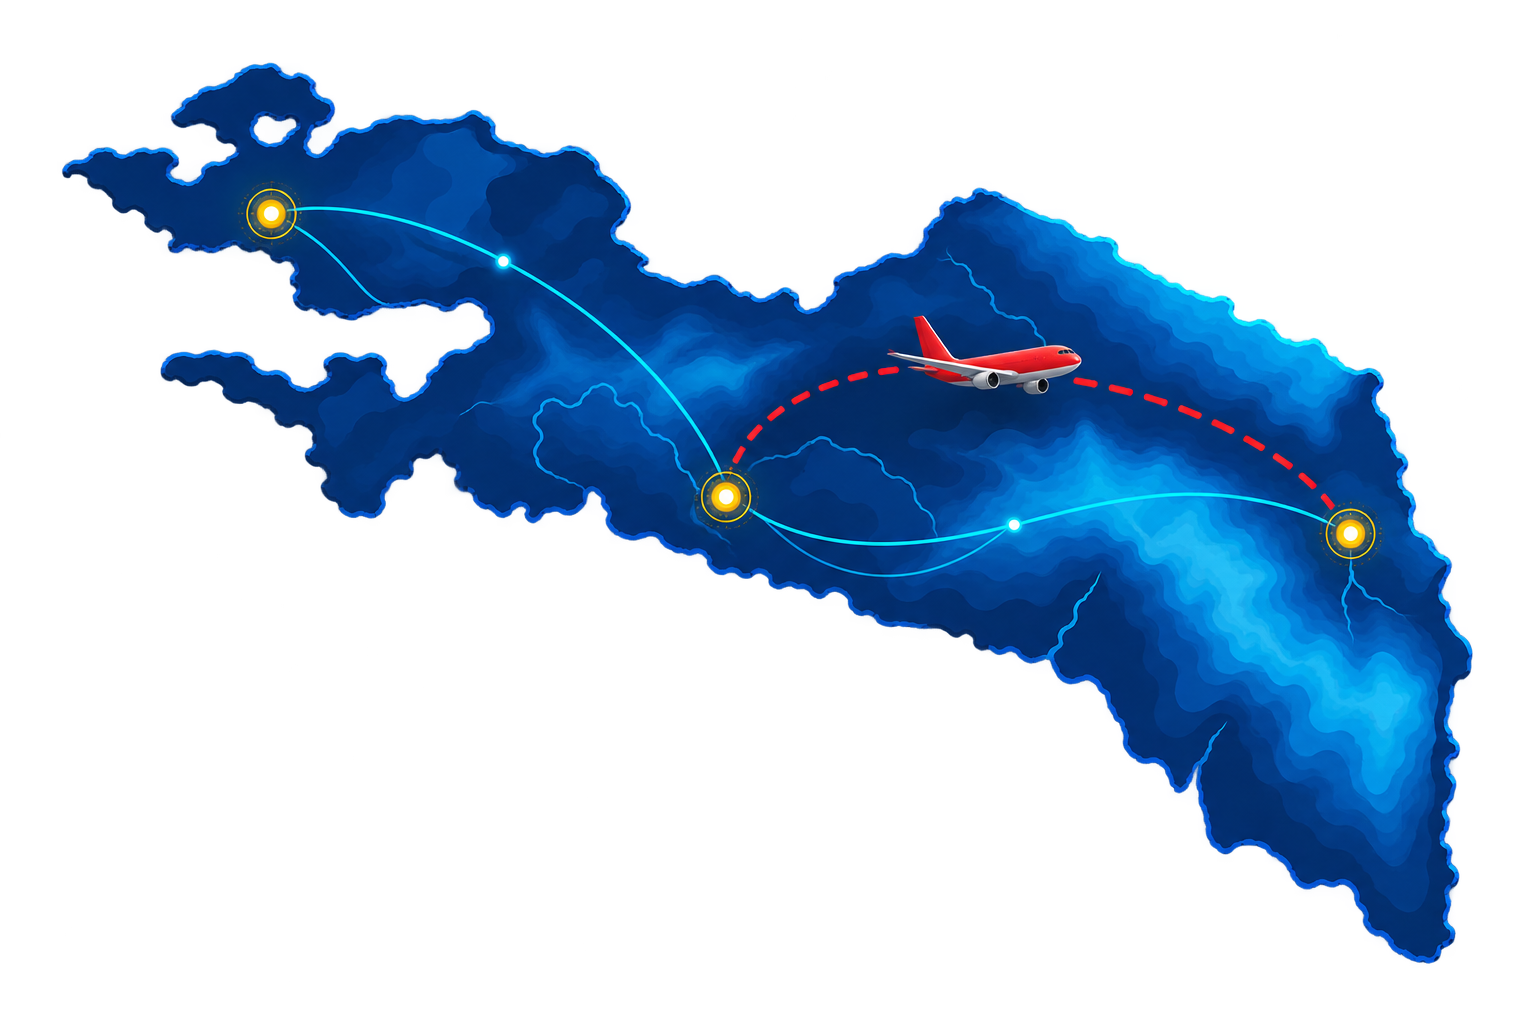
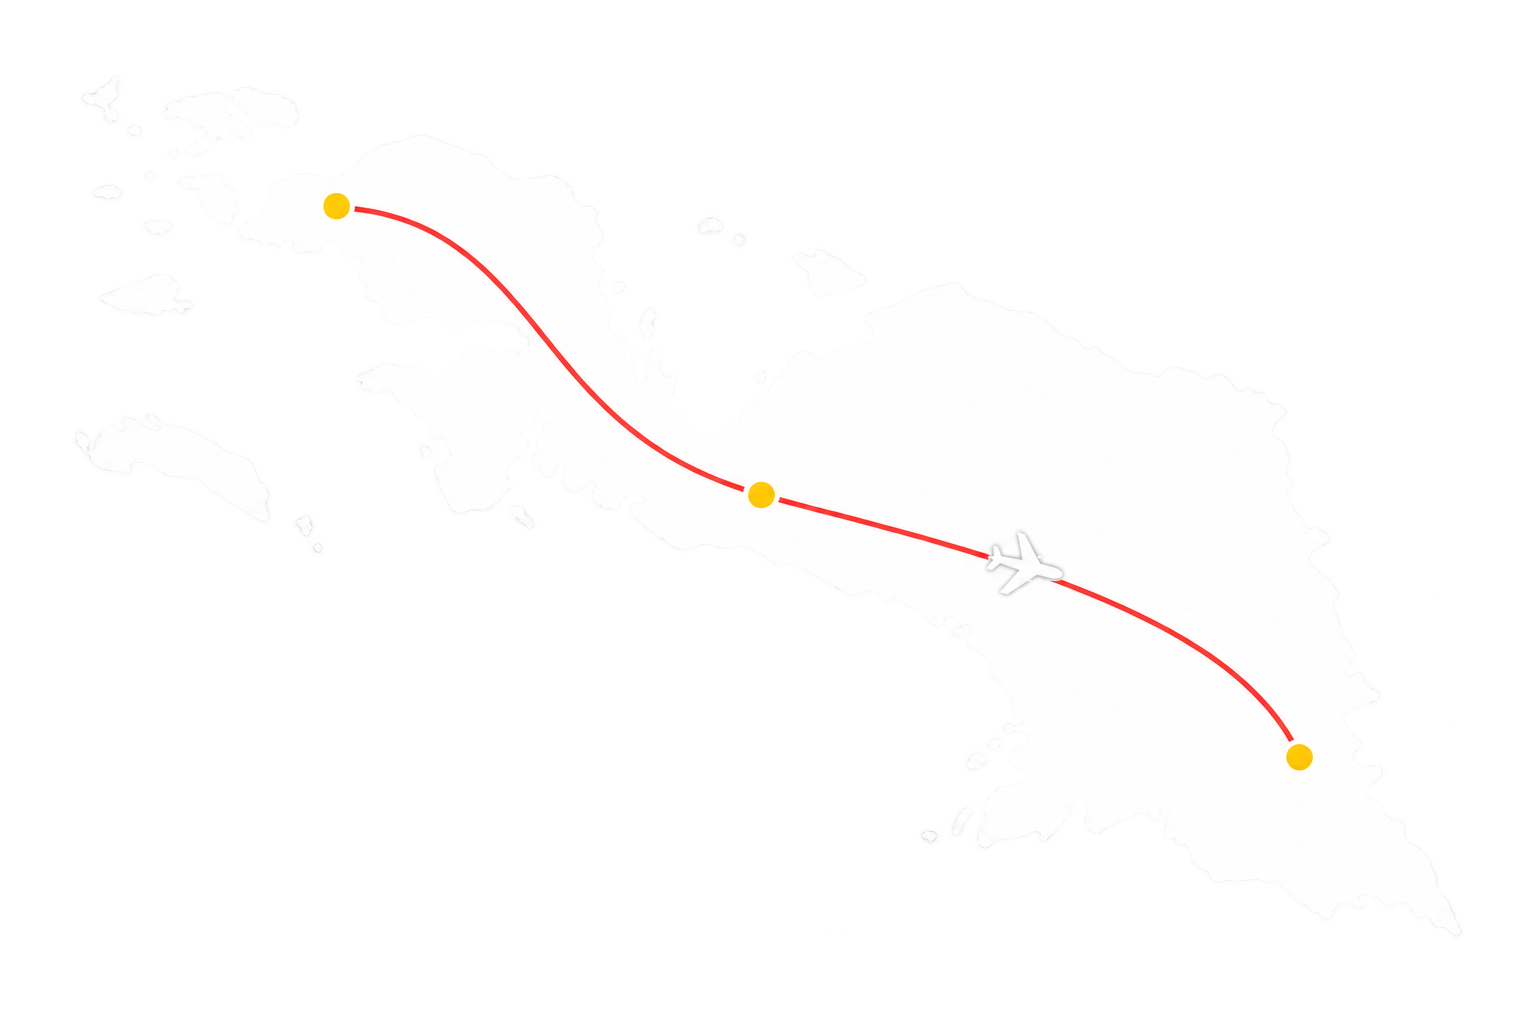
Use minimal white Papua map
* Replace Papua artwork with minimal white map

* Refresh minimal Papua illustration cache

* Remove extra illustration shadow

diff --git a/index.html b/index.html
@@ -33,7 +33,7 @@
         </div>
       </div>
       <aside class="hero-panel">
-        <img class="papua-illustration" src="libra-papua-cargo-illustration.png?v=20260903-1" alt="Ilustrasi jalur Cargo Project Intra Papua">
+        <img class="papua-illustration" src="libra-papua-cargo-illustration.png?v=20260903-2" alt="Ilustrasi jalur Cargo Project Intra Papua">
         <span>JANGKAUAN OPERASIONAL</span>
         <strong>Jakarta <i>↔</i> Papua</strong>
         <p>Terhubung ke berbagai kota di seluruh Indonesia melalui jaringan mitra transportasi terpercaya.</p>

diff --git a/styles.css b/styles.css
@@ -120,7 +120,7 @@
   max-height: 250px;
   object-fit: contain;
   margin: -16px auto 20px;
-  filter: drop-shadow(0 18px 30px #00101f80);
+  filter: none;
 }
 
 @media (orientation: landscape) and (min-width: 700px) and (max-height: 520px) {
